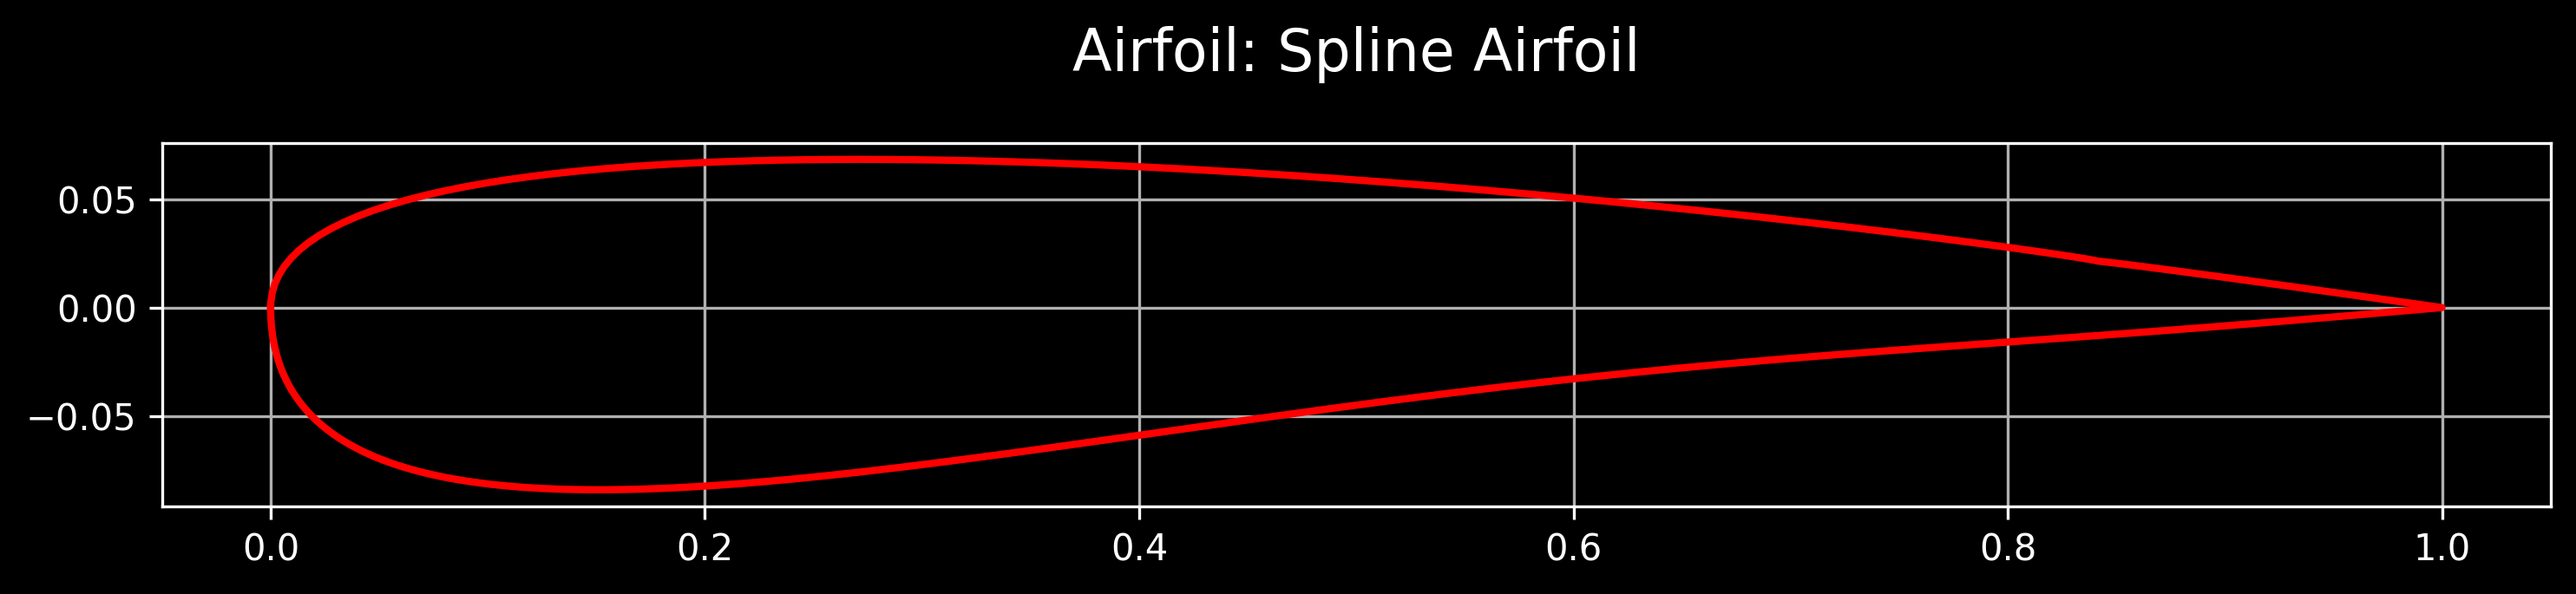
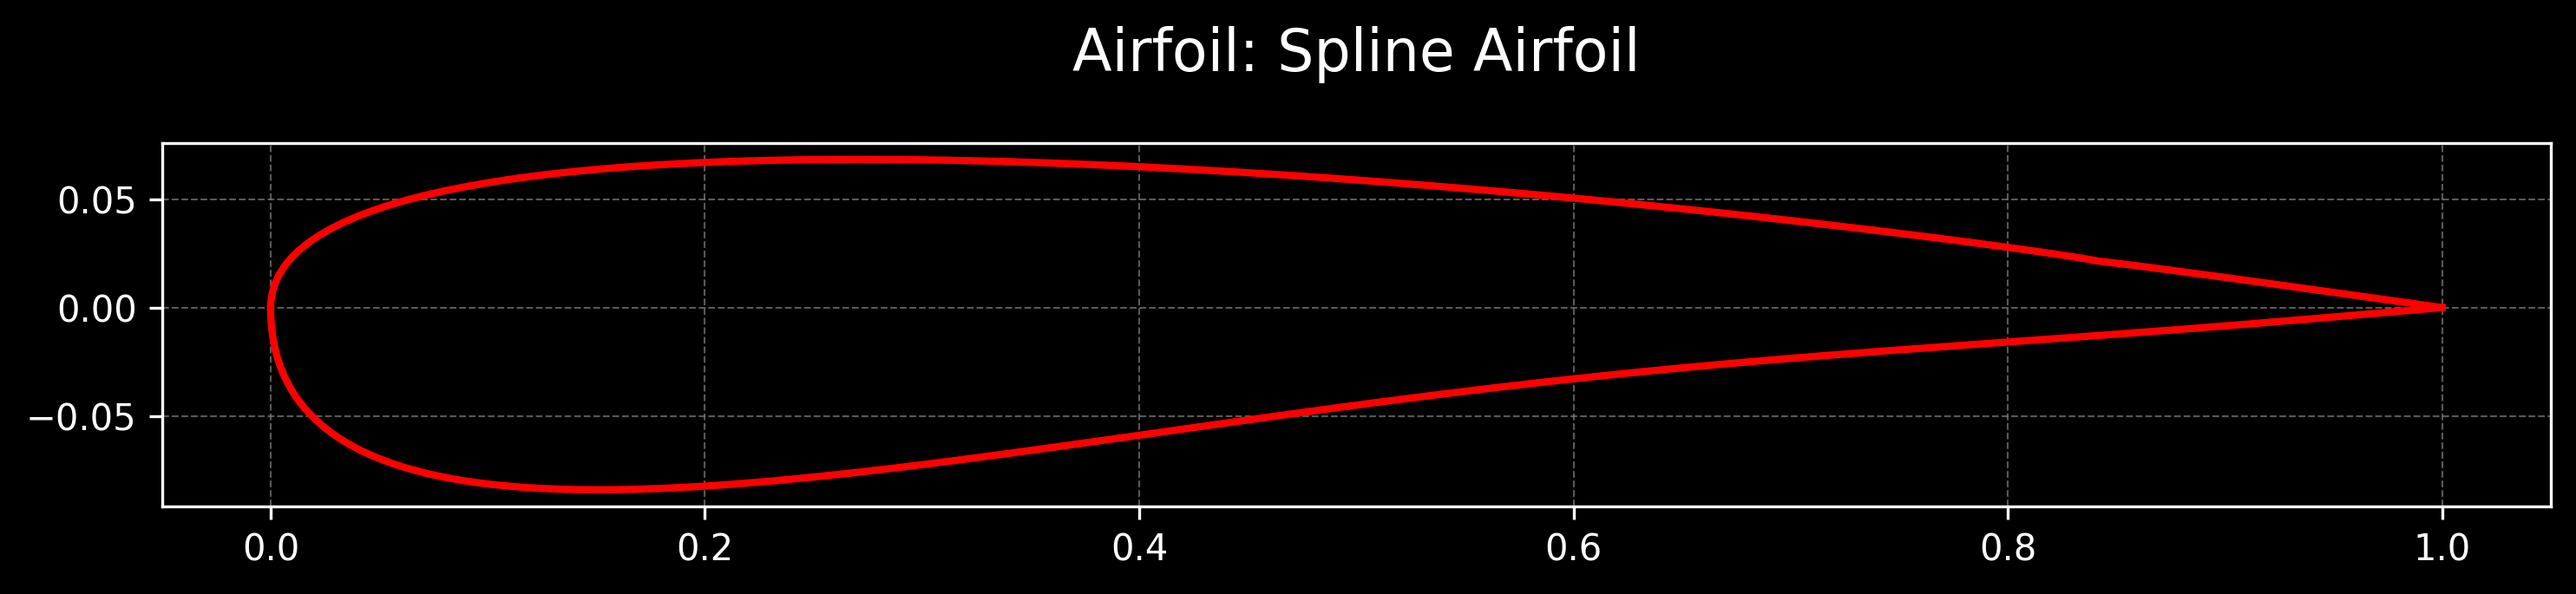
initial cleanup of airfoil prior to beginning blade work.

diff --git a/rotor_toolkit/airfoil.py b/rotor_toolkit/airfoil.py
@@ -358,24 +358,18 @@ class Airfoil:
             n_points (int): Number of points to sample per surface (default 200). If upper/lower surfaces exist, resample them.
         """
         import matplotlib.pyplot as plt
-        coords = None
-        # If the airfoil was built from upper_surface/lower_surface, resample for smoothness
-        if hasattr(self, 'upper_surface') and hasattr(self, 'lower_surface'):
-            print('good')
-            try:
-                upper_coords = self.upper_surface.sample(n_points//2)
-                lower_coords = self.lower_surface.sample(n_points//2)
-            except Exception:
-                upper_coords = self.upper_surface.samples[:n_points//2]
-                lower_coords = self.lower_surface.samples[:n_points//2]
-            coords = np.vstack((upper_coords, lower_coords[::-1]))
-        else:
-            print('no good')
-            coords = self.coordinates if self.coordinates is not None else self.generate_coordinates()
         fig, ax = plt.subplots(figsize=(10, 4))  # Cinematic aspect ratio
         fig.patch.set_facecolor('black')
         ax.set_facecolor('black')
-        ax.plot(coords[:,0], coords[:,1], color='red', linewidth=2)
+        # Plot upper and lower surfaces in the same color, no legend
+        if hasattr(self, 'upper_surface') and hasattr(self, 'lower_surface'):
+            upper_coords = self.upper_surface.sample(n_points//2)
+            lower_coords = self.lower_surface.sample(n_points//2)
+            ax.plot(upper_coords[:,0], upper_coords[:,1], color='red', linewidth=2)
+            ax.plot(lower_coords[:,0], lower_coords[:,1], color='red', linewidth=2)
+        else:
+            coords = self.coordinates if self.coordinates is not None else self.generate_coordinates()
+            ax.plot(coords[:,0], coords[:,1], color='red', linewidth=2)
         ax.set_aspect('equal', adjustable='box')
         ax.tick_params(axis='both', colors='white', which='both')
         ax.spines['bottom'].set_color('white')
@@ -383,8 +377,8 @@ class Airfoil:
         ax.spines['right'].set_color('white')
         ax.spines['left'].set_color('white')
         ax.set_title(f"Airfoil: {self.name}", color='white', fontsize=16, pad=20)
+        ax.grid(True, color='gray', linestyle='--', linewidth=0.5, alpha=0.7)
         plt.tight_layout()
-        plt.grid(True)
         if save:
             plt.savefig(f"{self.name}.png", dpi=300, bbox_inches='tight', facecolor='black')
         plt.show()

diff --git a/examples/example_naca_airfoil.py b/examples/example_naca_airfoil.py
@@ -1,0 +1,6 @@
+from rotor_toolkit.airfoil import Airfoil
+
+af = Airfoil(name="NACA2412", naca_code="12412")
+#af_spline = af.to_spline(n_points=200)
+af.report()
+af.plot(save=False)

diff --git a/README.md b/README.md
@@ -2,21 +2,29 @@
 
 `rotor_toolkit` is a Python-based design and modeling library for rotorcraft and turbomachinery components, with a focus on modular, parametric geometry generation. The project began as a way to generate and manipulate 2D airfoils but is growing into a pipeline for defining and exporting full 3D rotor or stator assemblies for UAS, turbomachinery, hydrodynamic vehicles, and helicopters.
 
-The toolkit is designed to support exploratory design, optimization, and integration with external analysis and iteration tools. It emphasizes parametric modeling of airfoil and blade sections, with the ability to generate and output clean, structured geometry for downstream applications.
+---
+
+## Requirements
+
+- Python 3.8+
+- [`spline_toolkit`](https://github.com/SeanAuer/spline_toolkit) — required for spline-based geometry definitions
+
+Make sure to install `spline_toolkit` before using the spline-based airfoil generation features.
 
 ---
 
 ## Components
 
 ### `Airfoil`
-- Supports NACA 4-digit and 5-digit generation
-- Can load `.dat` or `.csv` airfoil files
-- Allows user-defined coordinate lists
-- Spline-based generation using B-spline control points
-- Supports chord normalization, alignment, and plotting
-- Returns airfoil characteristics dynamically
+- Supports NACA 4-digit and 5-digit airfoil generation
+- Accepts `.dat` or `.csv` airfoil files
+- Allows fully custom coordinate input
+- Parametric spline generation using control points (via `spline_toolkit`)
+- Chord normalization, alignment to x-axis, and centerline enforcement
+- Interactive plotting with support for matplotlib/plotly
+- Dynamic evaluation of airfoil characteristics
 
-### `Blade` (coming soon)
+### `Blade` (in work)
 - Accepts a list of airfoil sections and spanwise definitions
 - Will support twist, chord, and sweep distributions
 - Generates 3D blade surface for lofting or export
@@ -27,7 +35,7 @@ The toolkit is designed to support exploratory design, optimization, and integra
 - Allows placement of blades with defined angular spacing
 - Simple geometric representation for early design/export
 
-### `Rotor`
+### `Rotor` (planned)
 - Combines blades + hub + orientation
 - Can define stators or rotors
 - Will support clean geometry export (STL, surface grid, etc.)
@@ -49,35 +57,23 @@ The toolkit is designed to support exploratory design, optimization, and integra
 ## Example (Basic)
 
 ```python
-from rotor_toolkit.airfoil import Airfoil
+from rotor_toolkit import Airfoil
 
 # Generate a classic NACA 2412 4-digit airfoil
 af = Airfoil(name="NACA2412", naca_code="2412", n_points=200)
-af.plot(save=True)
-
-# Create a spline NACA 2412 airfoil from control points
-import numpy as np
-control_pts = np.array([
-    [0.0,  0.0],
-    [0.1,  0.06],
-    [0.3,  0.08],
-    [0.6,  0.02],
-    [0.9, -0.01],
-    [1.0,  0.0]])
-spline_af = Airfoil.from_spline("custom_spline", control_pts)
-spline_af.plot()
+af.plot()
 ```
 
 ---
 
 ## Philosophy
 
-This project is intended to provide clarity, extensibility, and practicality for engineers who want direct control over airfoil and rotor geometry in a Python environment.
+`rotor_toolkit` aims to enable parametric rotor and airfoil modeling in a streamlined, Python-based environment.
 
-The goal is to support:
-- Hands-on geometry scripting
-- Rapid iteration
-- Future plug-in compatibility for meshing and MDO workflows
+Goals:
+- Script-based geometry creation and evaluation
+- Quick iteration for design exploration
+- Future integration with meshing, optimization, and export pipelines
 
 ---
 
